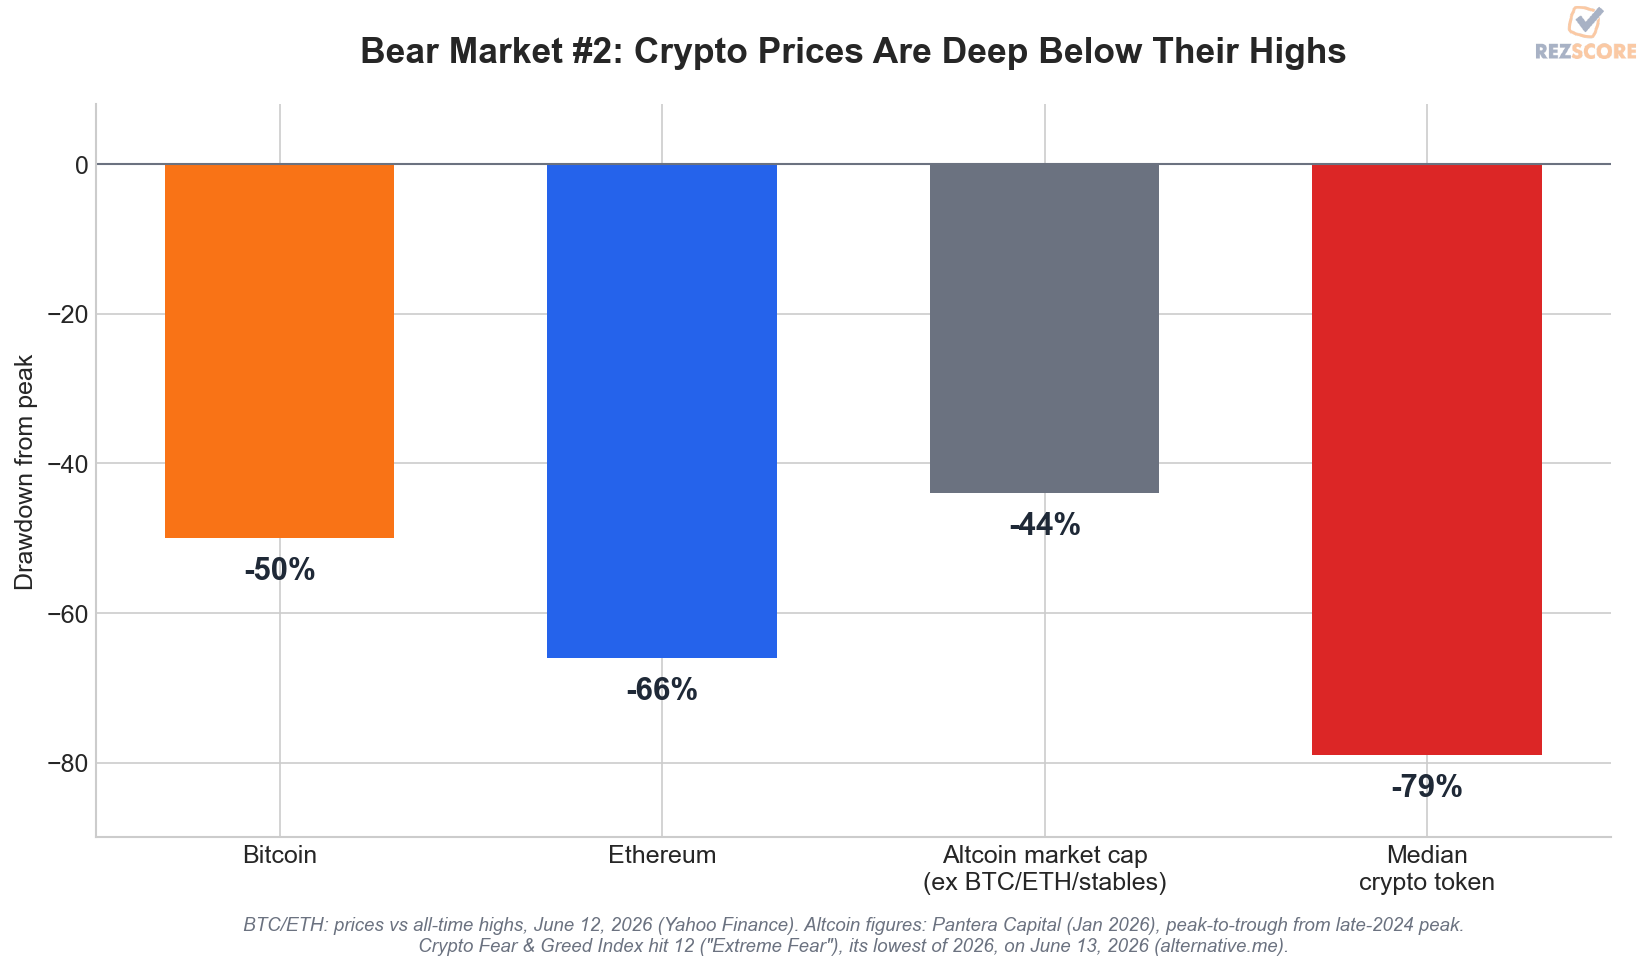
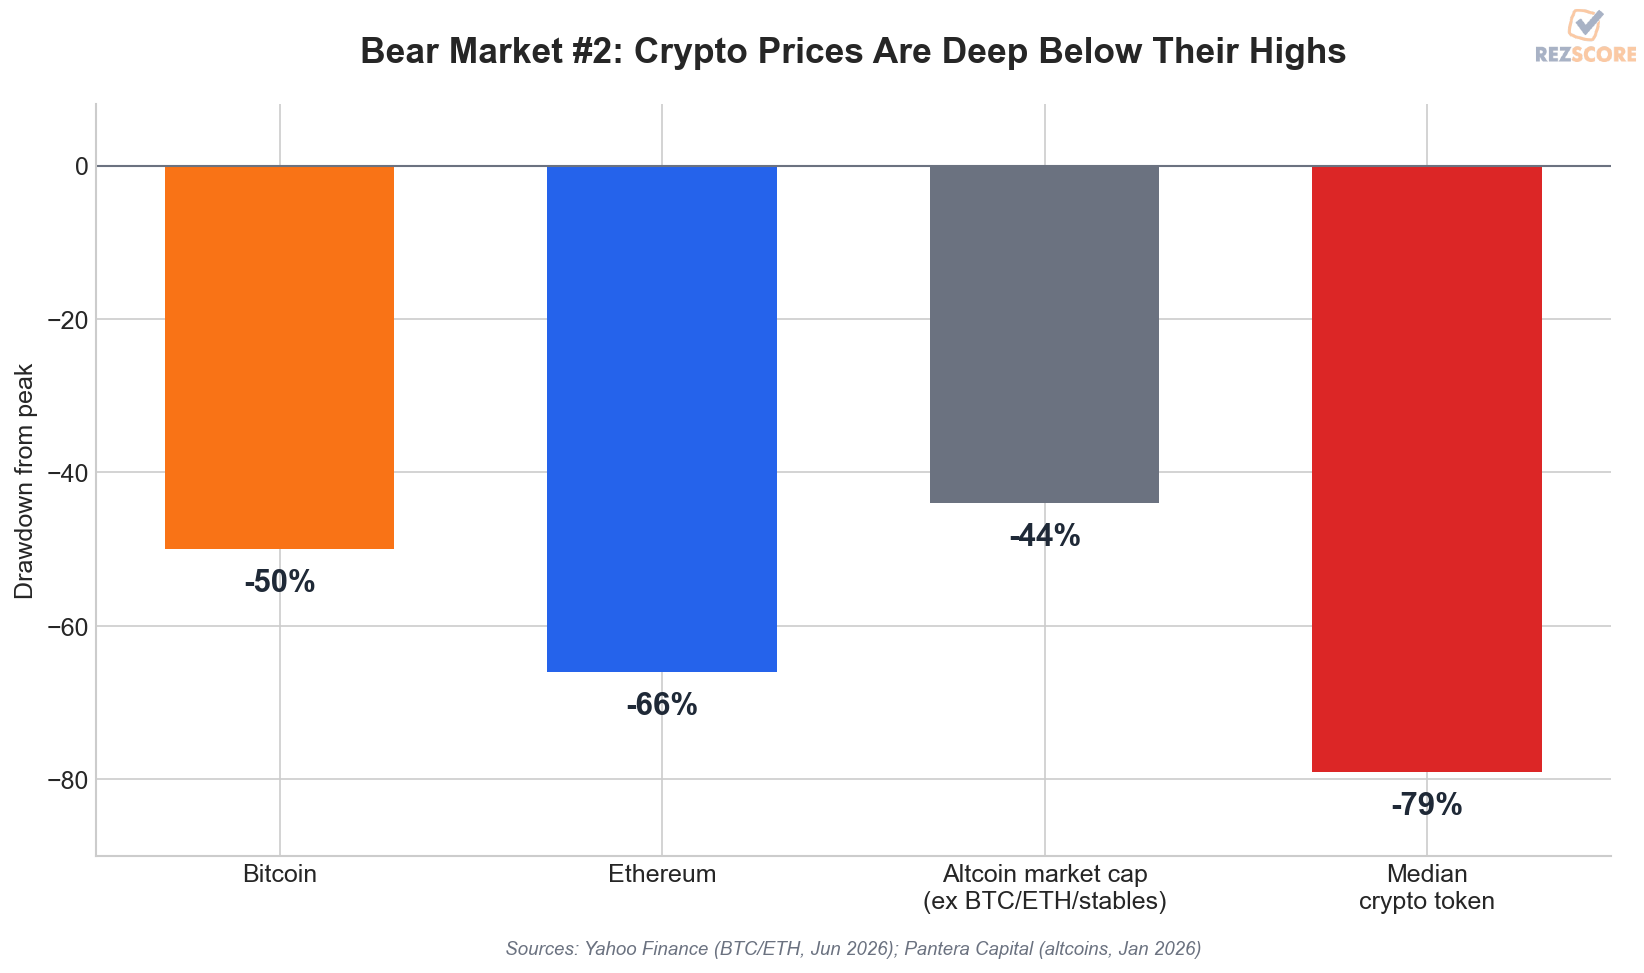
Trim chart captions to one line each
c2 caption was a dense 2-line paragraph (dropped the Fear & Greed
detail - not shown in this chart, it's in the post body). c4's two
captions were 3-line and 2-line; both now one line. Methodology
caveats live in the post + README, not crammed into the figure.

diff --git a/generate_crypto_blog_charts.py b/generate_crypto_blog_charts.py
@@ -167,11 +167,8 @@ def chart_2_crypto_drawdown():
     ax.set_title('Bear Market #2: Crypto Prices Are Deep Below Their Highs',
                  fontsize=17, fontweight='bold', pad=20)
 
-    # Fear & Greed callout
-    ax.text(0.5, -0.155,
-            'BTC/ETH: prices vs all-time highs, June 12, 2026 (Yahoo Finance). '
-            'Altcoin figures: Pantera Capital (Jan 2026), peak-to-trough from late-2024 peak.\n'
-            'Crypto Fear & Greed Index hit 12 ("Extreme Fear"), its lowest of 2026, on June 13, 2026 (alternative.me).',
+    ax.text(0.5, -0.13,
+            'Sources: Yahoo Finance (BTC/ETH, Jun 2026); Pantera Capital (altcoins, Jan 2026)',
             ha='center', fontsize=9, color=GRAY, style='italic', transform=ax.transAxes)
 
     ax.spines['top'].set_visible(False)
@@ -263,11 +260,9 @@ def chart_4_code_vs_coders():
              bbox=dict(boxstyle='round', facecolor='white', edgecolor=LIGHT_GRAY, pad=0.6))
     ax1.set_xticks([0])
     ax1.set_xticklabels(['Google: AI-generated\nshare of NEW code'])
-    ax1.text(0.5, -0.24,
-             'Sources: Sundar Pichai, Alphabet Q3 2024 earnings (Oct 2024)\n'
-             '— new code, reviewed by engineers. Copilot users:\n'
-             'Microsoft (Jul 2025), cumulative all-time, not active.',
-             ha='center', va='top', fontsize=8.5, color=GRAY, style='italic',
+    ax1.text(0.5, -0.20,
+             'Source: Sundar Pichai, Alphabet Q3 2024 earnings (Oct 2024)',
+             ha='center', va='top', fontsize=9, color=GRAY, style='italic',
              transform=ax1.transAxes)
     ax1.spines['top'].set_visible(False)
     ax1.spines['right'].set_visible(False)
@@ -287,17 +282,16 @@ def chart_4_code_vs_coders():
     ax2.set_ylim(-20, 84)
     ax2.set_ylabel('Percent', fontsize=12)
     ax2.set_title('"Fewer coders": base flat, consolidating', fontsize=14, fontweight='bold', pad=15)
-    ax2.text(0.5, -0.24,
-             'Source: Electric Capital 2024 Developer Report (as of Nov 2024).\n'
-             'The -7% is described as a statistically insignificant change — "basically flat."',
-             ha='center', va='top', fontsize=8.5, color=GRAY, style='italic',
+    ax2.text(0.5, -0.20,
+             'Source: Electric Capital 2024 Developer Report (Nov 2024)',
+             ha='center', va='top', fontsize=9, color=GRAY, style='italic',
              transform=ax2.transAxes)
     ax2.spines['top'].set_visible(False)
     ax2.spines['right'].set_visible(False)
 
     fig.suptitle('More Code, Fewer Coders (the facts; the conclusion is the argument)',
                  fontsize=17, fontweight='bold', y=1.00)
-    plt.tight_layout(rect=[0, 0.06, 1, 1])
+    plt.tight_layout(rect=[0, 0.03, 1, 1])
     add_watermark(fig)  # top-right of the whole image
     plt.savefig(OUTPUT_DIR / 'c4_code_vs_coders.png', dpi=150, bbox_inches='tight',
                 facecolor='white', edgecolor='none')
